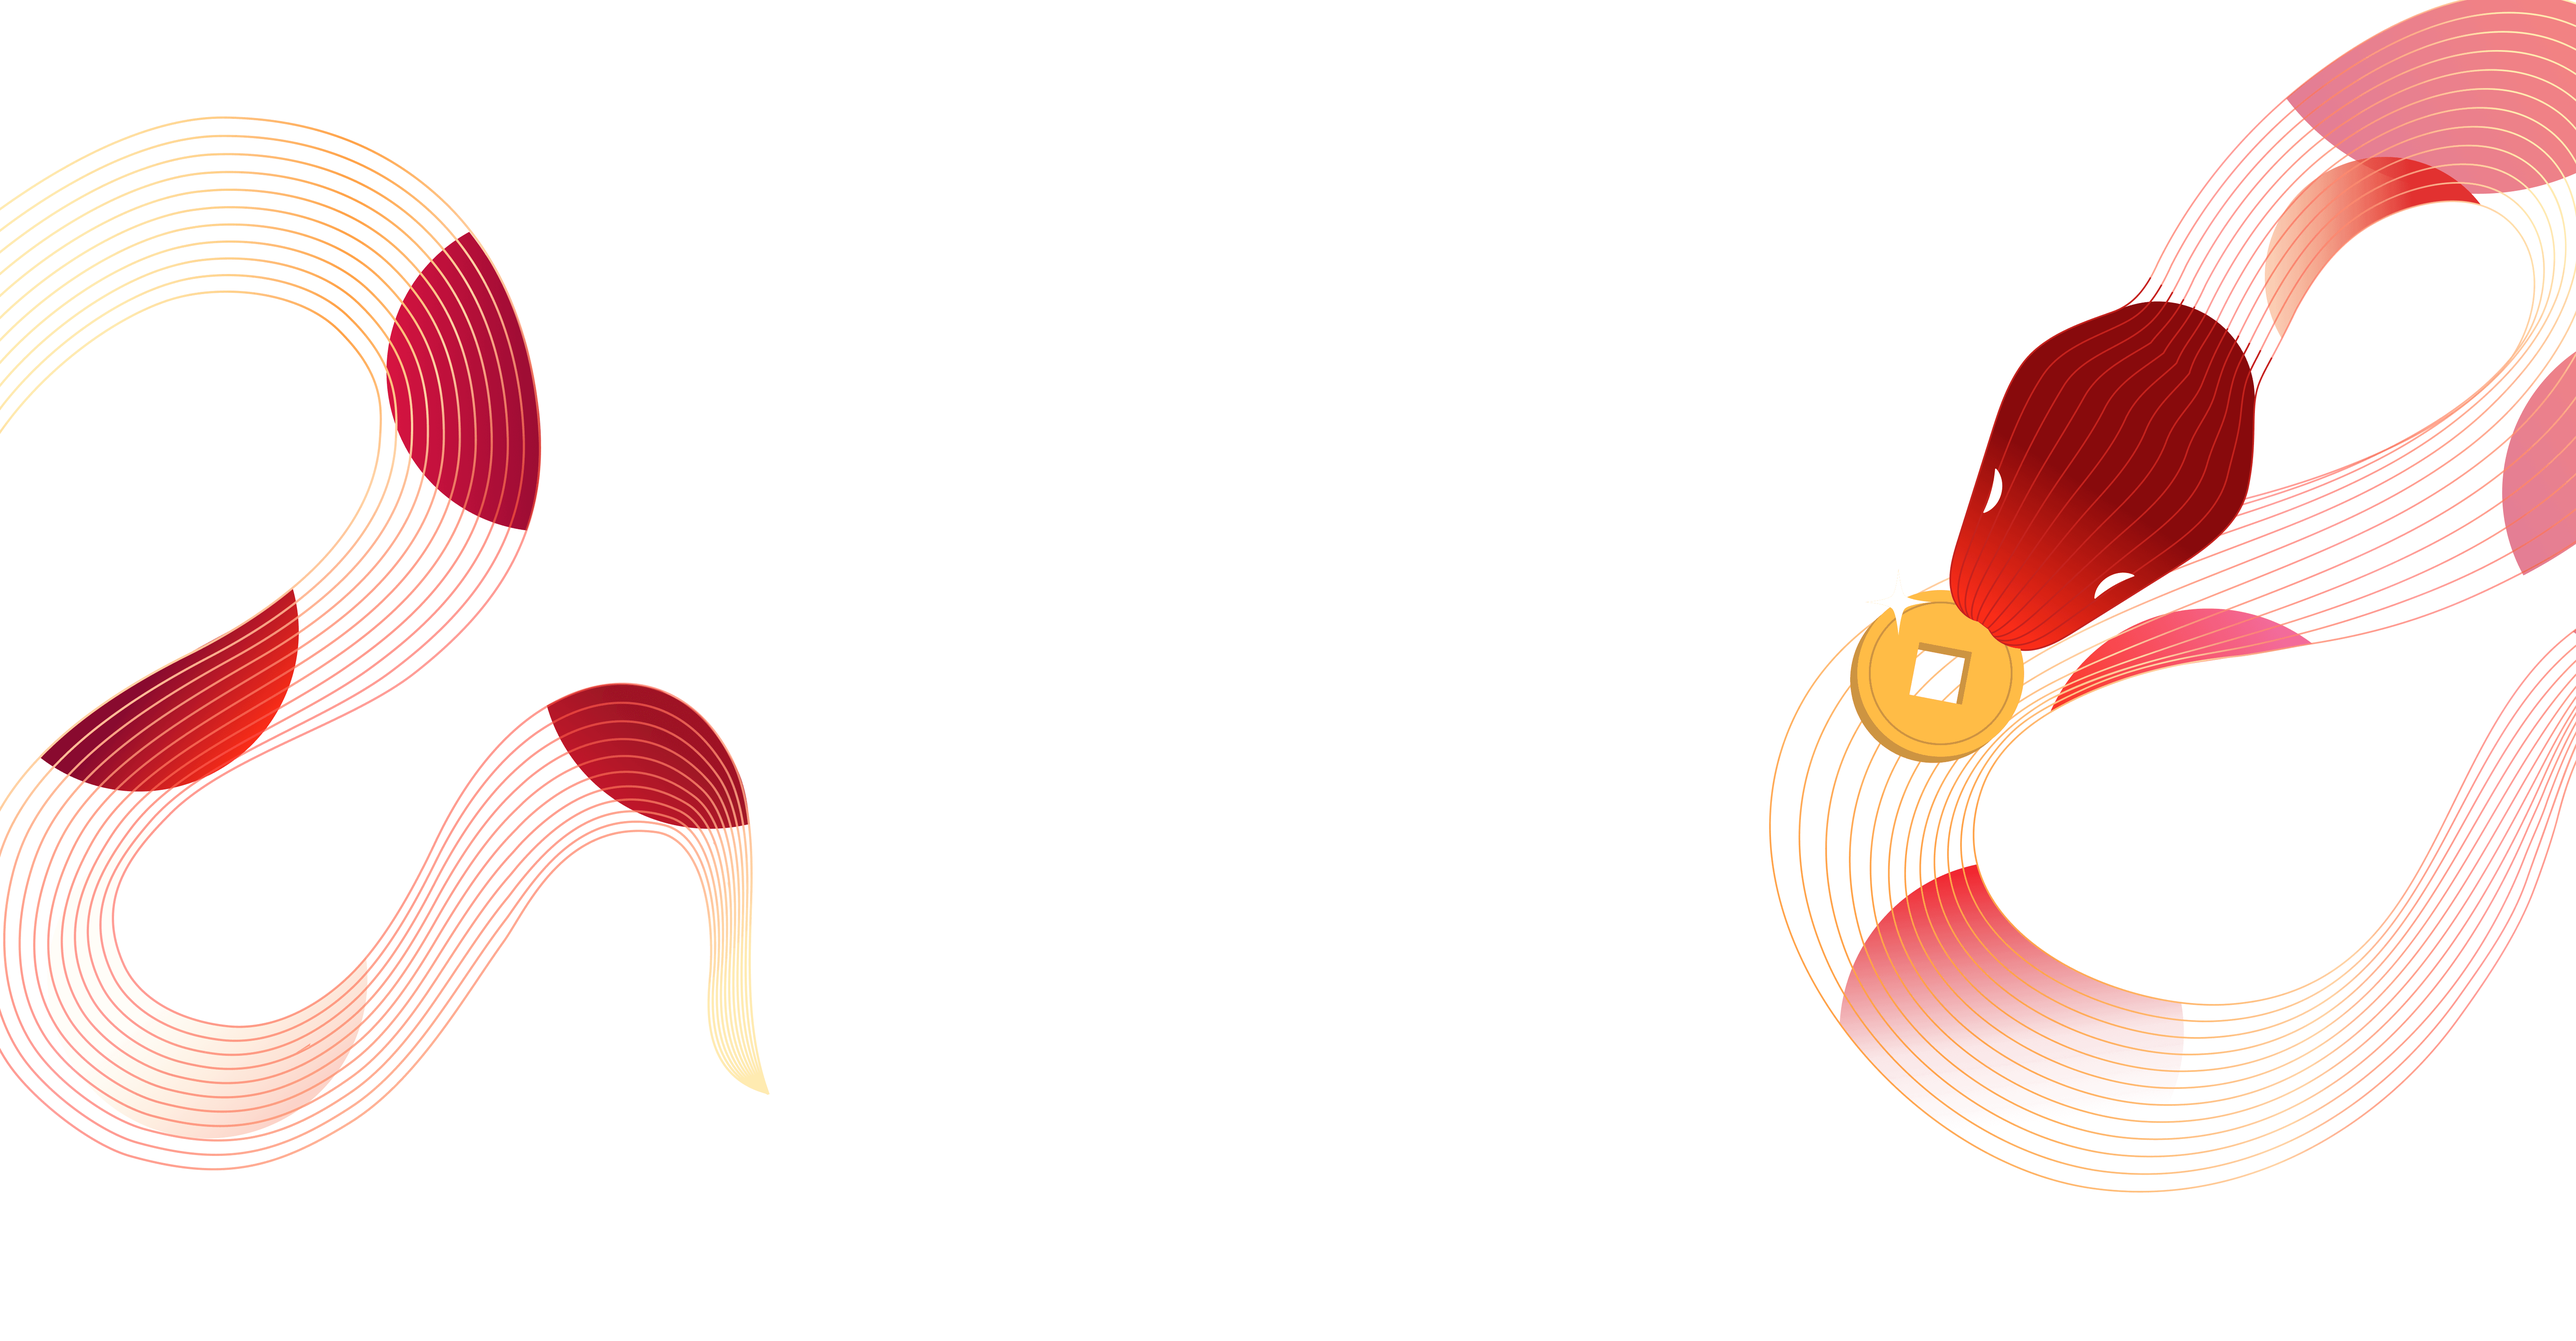
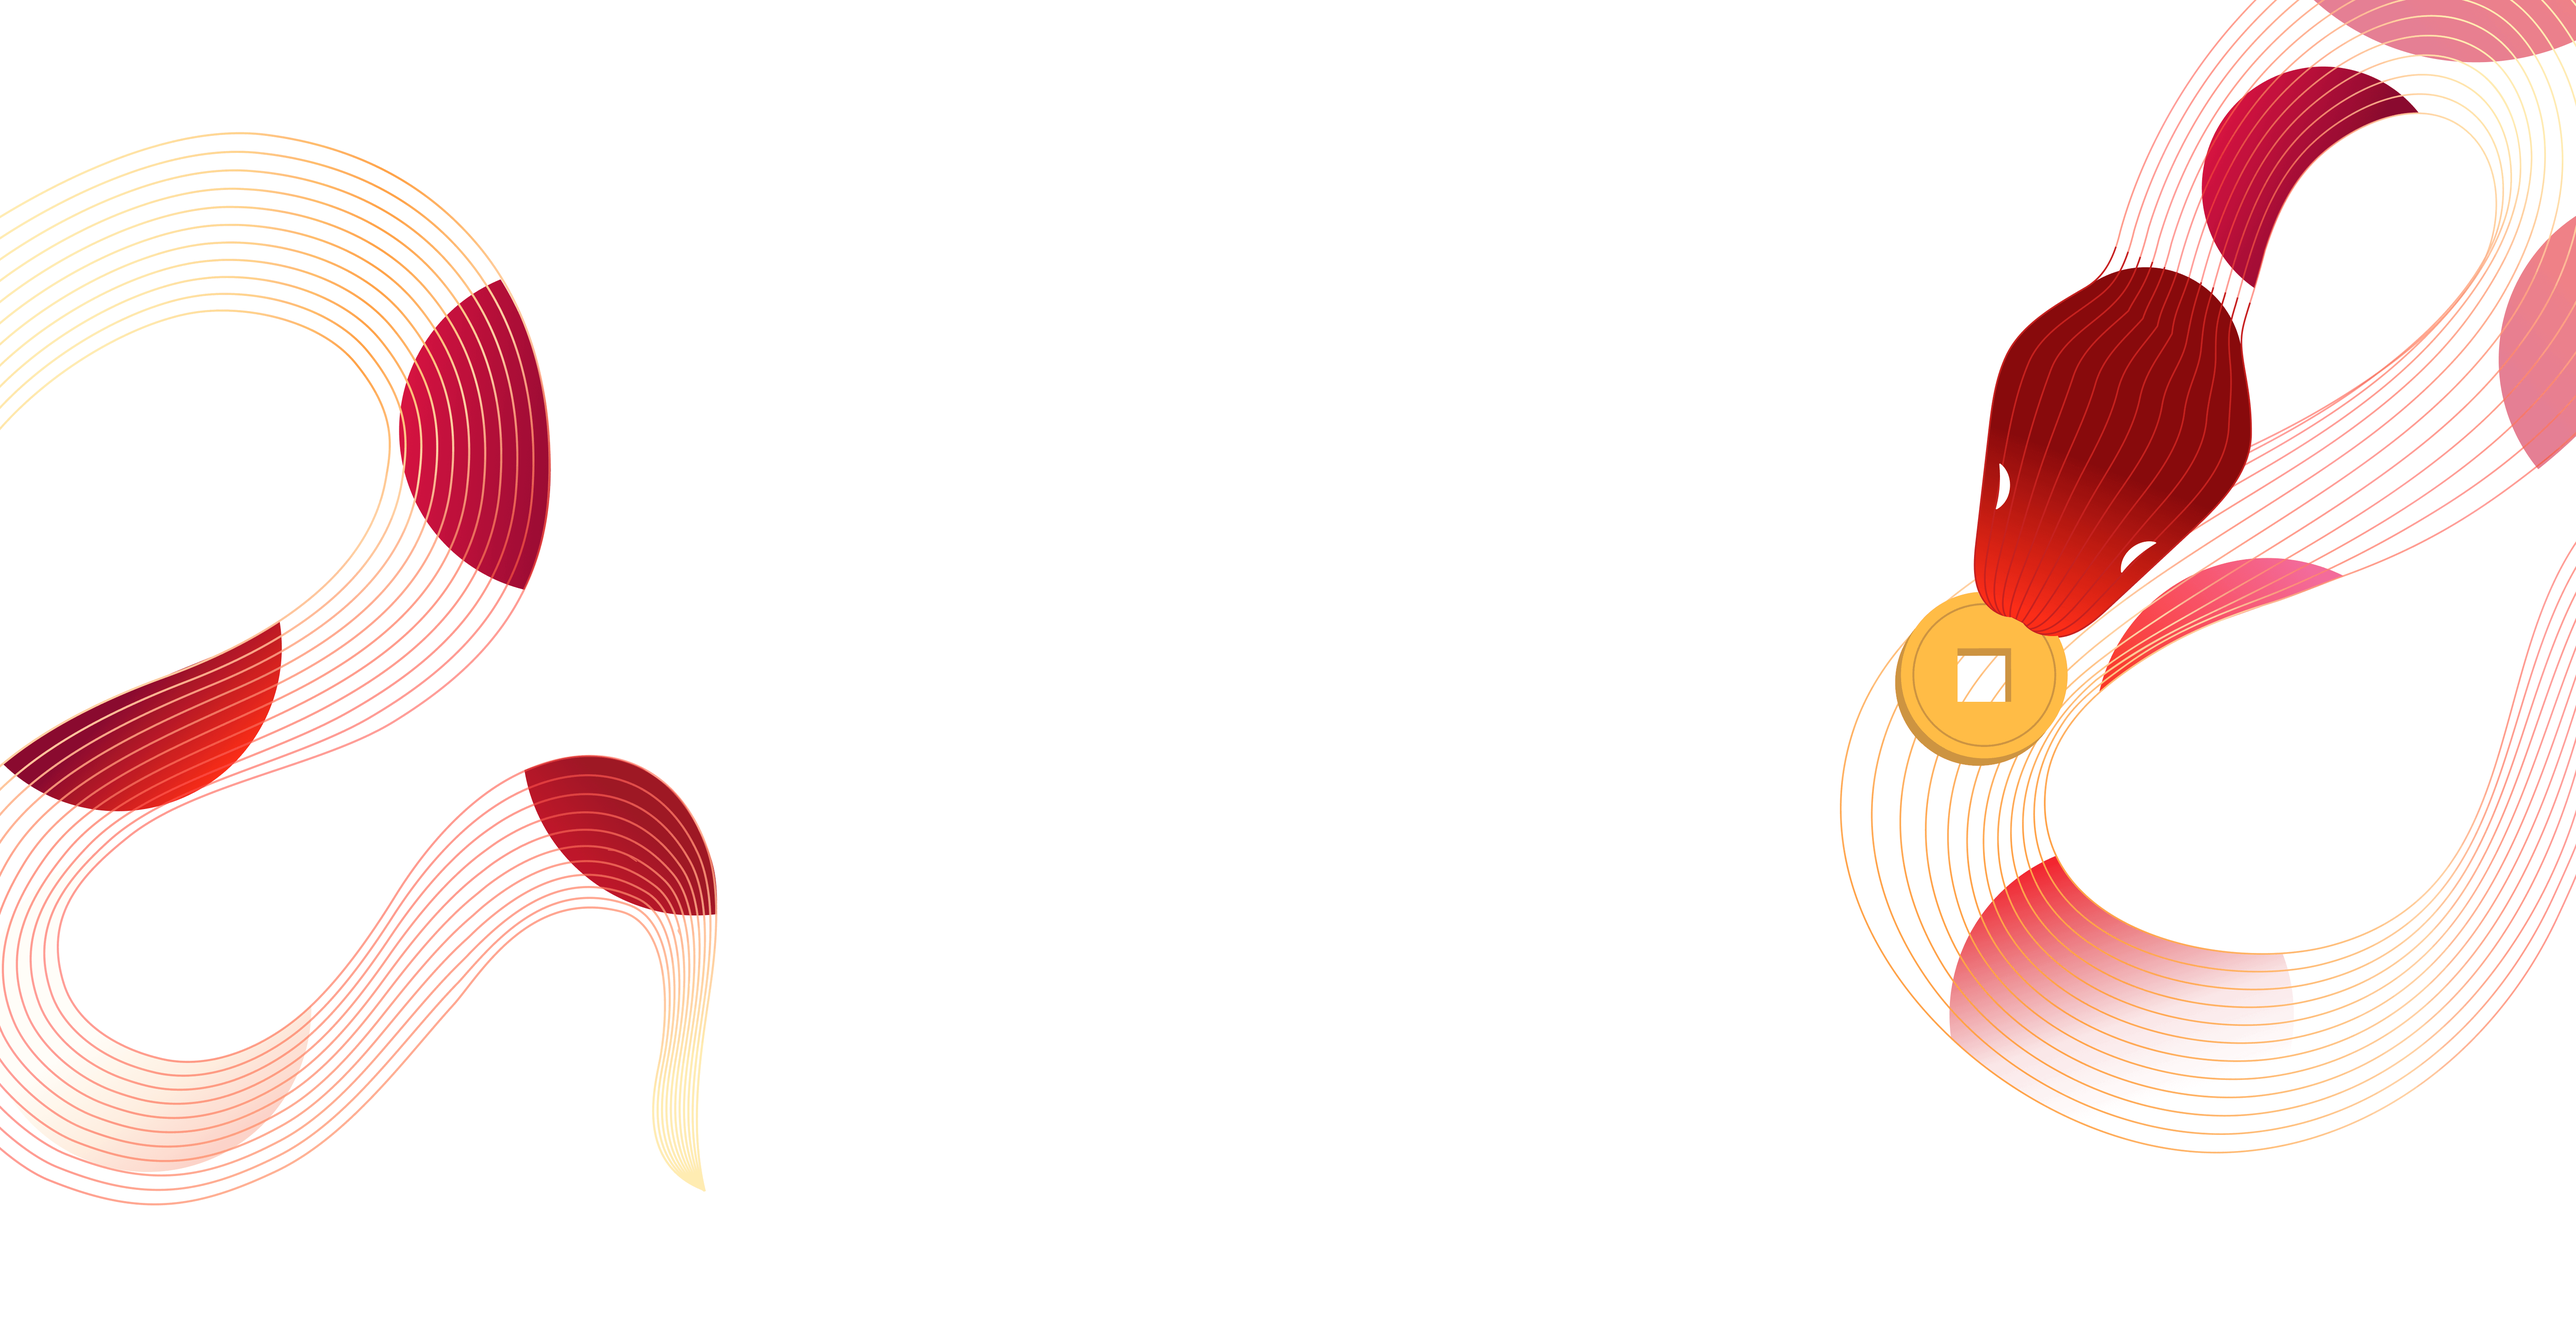
19

Changed region(s): [[0.6875, 0.0, 1.0, 0.868], [0.0, 0.093, 0.3125, 0.899]]

diff --git a/assets/css/stylesheet.css b/assets/css/stylesheet.css
@@ -271,16 +271,16 @@ button:hover{
     animation-delay: 1s;
 }
 
-@media (max-width: 1023px) {
-
-    .CoinBlock{
-        width: 90%;
-        height: 50%;
-    }
+@media (max-width: 1439px) {
     .coin-1{
         top: 110%;
         left: 10%;
     }
+    .star-1{
+        top: 108%;
+        left: 15%;
+    }
+
     .star-1{
         top: 108%;
         left: 15%;
@@ -297,12 +297,33 @@ button:hover{
 
     .coin-3{
         right: 90%;
-        top: -20%;
+        top: -15%;
     }
 
     .star-3{
         right: 95%;
-        top: -20%;
+        top: -15%;
+    }
+}
+
+@media (max-width: 1023px) {
+
+
+    .coin-2{
+        width: 12%;
+        left: 80%;
+    }
+
+    .star-2{
+        left: 80%;
+    }
+
+    .coin-3{
+        right: 85%;
+    }
+
+    .star-3{
+        right: 85%;
     }
 
 }
@@ -314,34 +335,33 @@ button:hover{
         height: 45%;
     }
     .coin-1{
-        width: 32px;
+        width: 15%;
         top: 130%;
         left: 0%;
     }
     .star-1{
-        width: 16px;
+        width: 5%;
         top: 124%;
         left: 0%;
     }
 
     .coin-2{
-        width: 32px;
         bottom: -25%;
     }
 
     .star-2{
-        width: 14px;
+        width: 5%;
         bottom: -25%;
     }
 
     .coin-3{
-        width: 48px;
+        width: 20%;
         top: -20%;
-        right: 90%;
+        right: 80%;
     }
 
     .star-3{
-        width: 16px;
+        width: 7%;
         top: -20%;
         right: 90%;
     }
@@ -404,7 +424,7 @@ button:hover{
     background-image: url(../images/Banner/Snake.png);
     width: 100vw;
     height: 100vh;
-    background-position: center;
+    background-position: center center;
     background-size: cover;
     position: absolute;
     bottom: 0;
@@ -436,8 +456,8 @@ button:hover{
 
 .Head{
     background-image: url(../images/Banner/Head_360.png);
-    width: 40vw;
-    height:30vh;
+    width: 50vw;
+    height:50vh;
     background-position: top right;
     background-size: contain;
     background-repeat: no-repeat;
@@ -460,6 +480,33 @@ button:hover{
     display: none;
 }
 
+
+
+@media (max-width: 1439px) {
+
+    .KeyPoint{
+        transform: translate(-50%, -45%);
+    }
+
+    .Head,.Tail{
+        display: block;
+    }
+
+    .Head{
+        width: 30vw;
+        height: 30vw;
+    }
+
+    .Tail{
+        width: 55vw;
+        height: 55vw;
+    }
+
+    .Snake{
+        display: none;
+    }
+}
+
 @media (max-width: 1023px) {
 
     .Banner{
@@ -467,19 +514,14 @@ button:hover{
         margin-top: 72px;
     }
 
+    .KeyPoint{
+        max-width: 740px;
+        transform: translate(-50%, -40%);
+    }
 
     .BannerBG{
         height: 95vh;
     }
-
-    .Snake{
-        display: none;
-    }
-
-    .Head,.Tail{
-        display: block;
-    }
-
 }
 
 @media (max-width: 767px) {
@@ -504,11 +546,20 @@ button:hover{
 
 
     .KeyPoint{
-        top: 45%;
+        max-width: 480px;
+        transform: translate(-50%, -40%);
         gap: 16px;
     }
     
+    .Head{
+        width: 40vw;
+        height: 30vh;
+    }
 
+    .Tail{
+        width: 40vw;
+        height: 40vh;
+    }
    
 
 }

diff --git a/assets/css/common.css b/assets/css/common.css
@@ -19,6 +19,10 @@ img {
     vertical-align: middle
 }
 
+body{
+    overflow-x: hidden;
+}
+
 html {
     scroll-behavior: smooth; /* 啟用平滑滾動效果 */
 }
@@ -493,60 +497,103 @@ html {
     left: 0;
     width: 100%;
     height: 100%;
-    background-color: rgba(50, 50, 50, 0.9);
+    background-color: rgba(0, 0, 0, 0.8);
     z-index: 1000;
-    overflow: hidden; /* 禁止滑動 */
+    overflow: hidden;
 }
 
 .popup {
+    width: 40%;
     position: fixed;
     top: 50%;
     left: 50%;
     transform: translate(-50%, -50%);
-    background-color: white;
-    padding: 20px 40px;
-    border-radius: 10px;
     text-align: center;
-    box-shadow: 0 4px 15px rgba(0, 0, 0, 0.2);
-    z-index: 1100;
-    animation: slide-in 0.4s ease-out;
+    z-index: 100;
+    animation: slide-in 0.5s ease-out;
 }
 
 .popup h2 {
-    margin-bottom: 15px;
+    margin-bottom: 12px;
     font-size: 1.5rem;
-    color: #00000;
 }
 
-.popup p {
-    font-size: 1rem;
-    color: #666;
-}
+
 
 /* Close按鈕樣式 */
 .close-btn {
     position: absolute;
-    top: 10px;
-    right: 10px;
     background: transparent;
+    box-shadow: none;
     border: none;
-    font-size: 1.5rem;
+    font-size:40px;
     cursor: pointer;
     color: #333;
+    right: 0;
+    top: -18px;
+    margin-top: 6px;
+    justify-content: flex-end;
+}
+.close-btn:hover{
+    background: none;
 }
 
-.close-btn:hover {
-    color: #f00;
+.Rate{
+    position: relative;
+}
+
+.Rate img{
+    position: absolute;
+    width: 94px;
+    height: auto;
+    top: 0;
+    left: 50%;
+    transform: translate(-50%, -50%);
+}
+
+.Rate h1{
+    font-size: 48px;
+    padding: 40px;
+    border: 2px solid #E8AD4F;
+    border-radius: 10px;
+    background-color: white;
+}
+
+.OverBody{
+    position: relative;
+    margin: 0 auto;
+    width: 90%;
+    display: flex;
+    flex-direction: column;
+    background-color: #FFF3EB;
+    padding: 64px 24px 24px 24px;
+    border-right: 24px solid #B30003;
+    border-left: 24px solid #B30003;
 }
 
 /* 動畫效果 */
 @keyframes slide-in {
     0% {
-        transform: translate(-50%, -60%);
+        transform: translate(-50%, -20%);
         opacity: 0;
     }
     100% {
         transform: translate(-50%, -50%);
         opacity: 1;
+    }
+}
+@media (max-width: 1023px) {
+    .popup{
+        width: 60%;
+    }
+}
+@media (max-width: 767px) {
+    .popup{
+        width: 80%;
+    }
+
+    .OverBody{
+        border-right: 16px solid #B30003;
+        border-left: 16px solid #B30003;
     }
 }

diff --git a/index.html b/index.html
@@ -105,9 +105,45 @@
             <!-- Popup -->
             <div class="popup-overlay" id="popupOverlay">
                 <div class="popup">
-                    <button class="close-btn" id="closePopup">&times;</button>
-                    <h2>優惠利率 5.0%</h2>
-                    <p>感謝您的參與！快來享受我們的優惠吧！</p>
+                    <div class="Rod">
+                        <div class="OuterMost"></div>
+                        <div class="OutPoint">
+                            <div class="OutPointTop"></div>
+                            <div class="OutPointBottom"></div>
+                        </div>
+                        <div class="Center">
+                            <div class="HorTop"></div>
+                            <div class="HorBottom"></div>
+                        </div>
+                        <div class="OutPoint">
+                            <div class="OutPointTop"></div>
+                            <div class="OutPointBottom"></div>
+                        </div>
+                        <div class="OuterMost"></div>
+                    </div>
+                    <div class="OverBody">
+                        <button class="close-btn" id="closePopup">&times;</button>
+                        <div class="Rate">
+                            <img src="./assets/images/side/Rate.png" alt="">
+                            <h1>5.55%</h1>
+                        </div>
+                    </div>
+                    <div class="Rod">
+                        <div class="OuterMost"></div>
+                        <div class="OutPoint">
+                            <div class="OutPointTop"></div>
+                            <div class="OutPointBottom"></div>
+                        </div>
+                        <div class="Center">
+                            <div class="HorTop"></div>
+                            <div class="HorBottom"></div>
+                        </div>
+                        <div class="OutPoint">
+                            <div class="OutPointTop"></div>
+                            <div class="OutPointBottom"></div>
+                        </div>
+                        <div class="OuterMost"></div>
+                    </div>
                 </div>
             </div>
 
